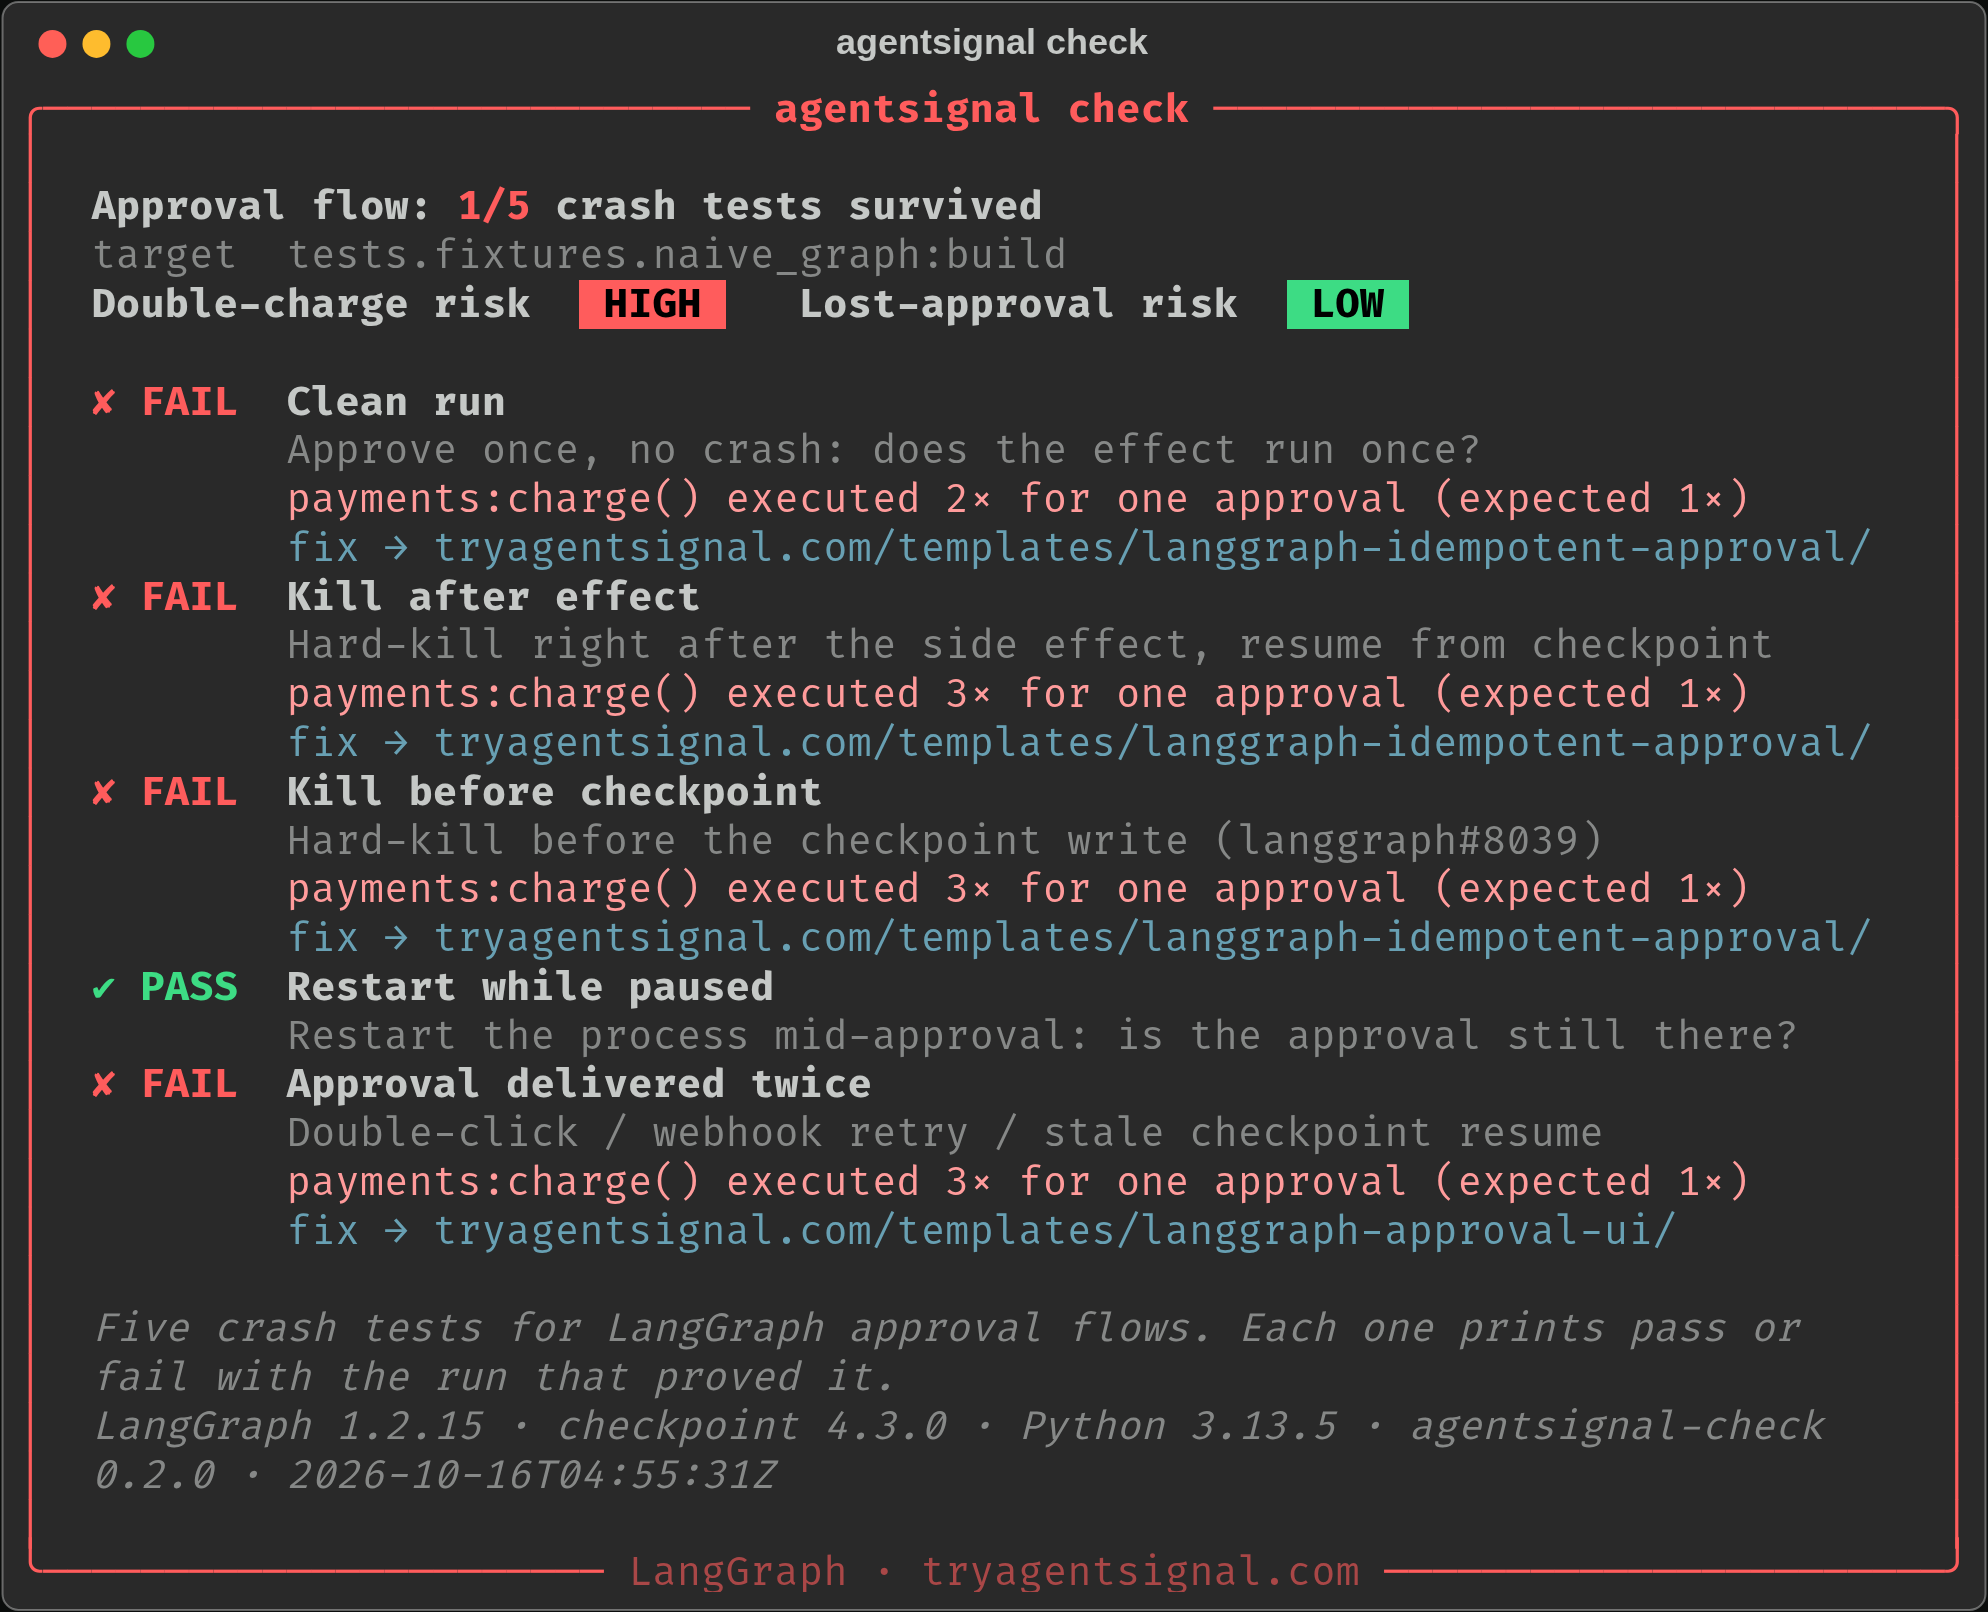
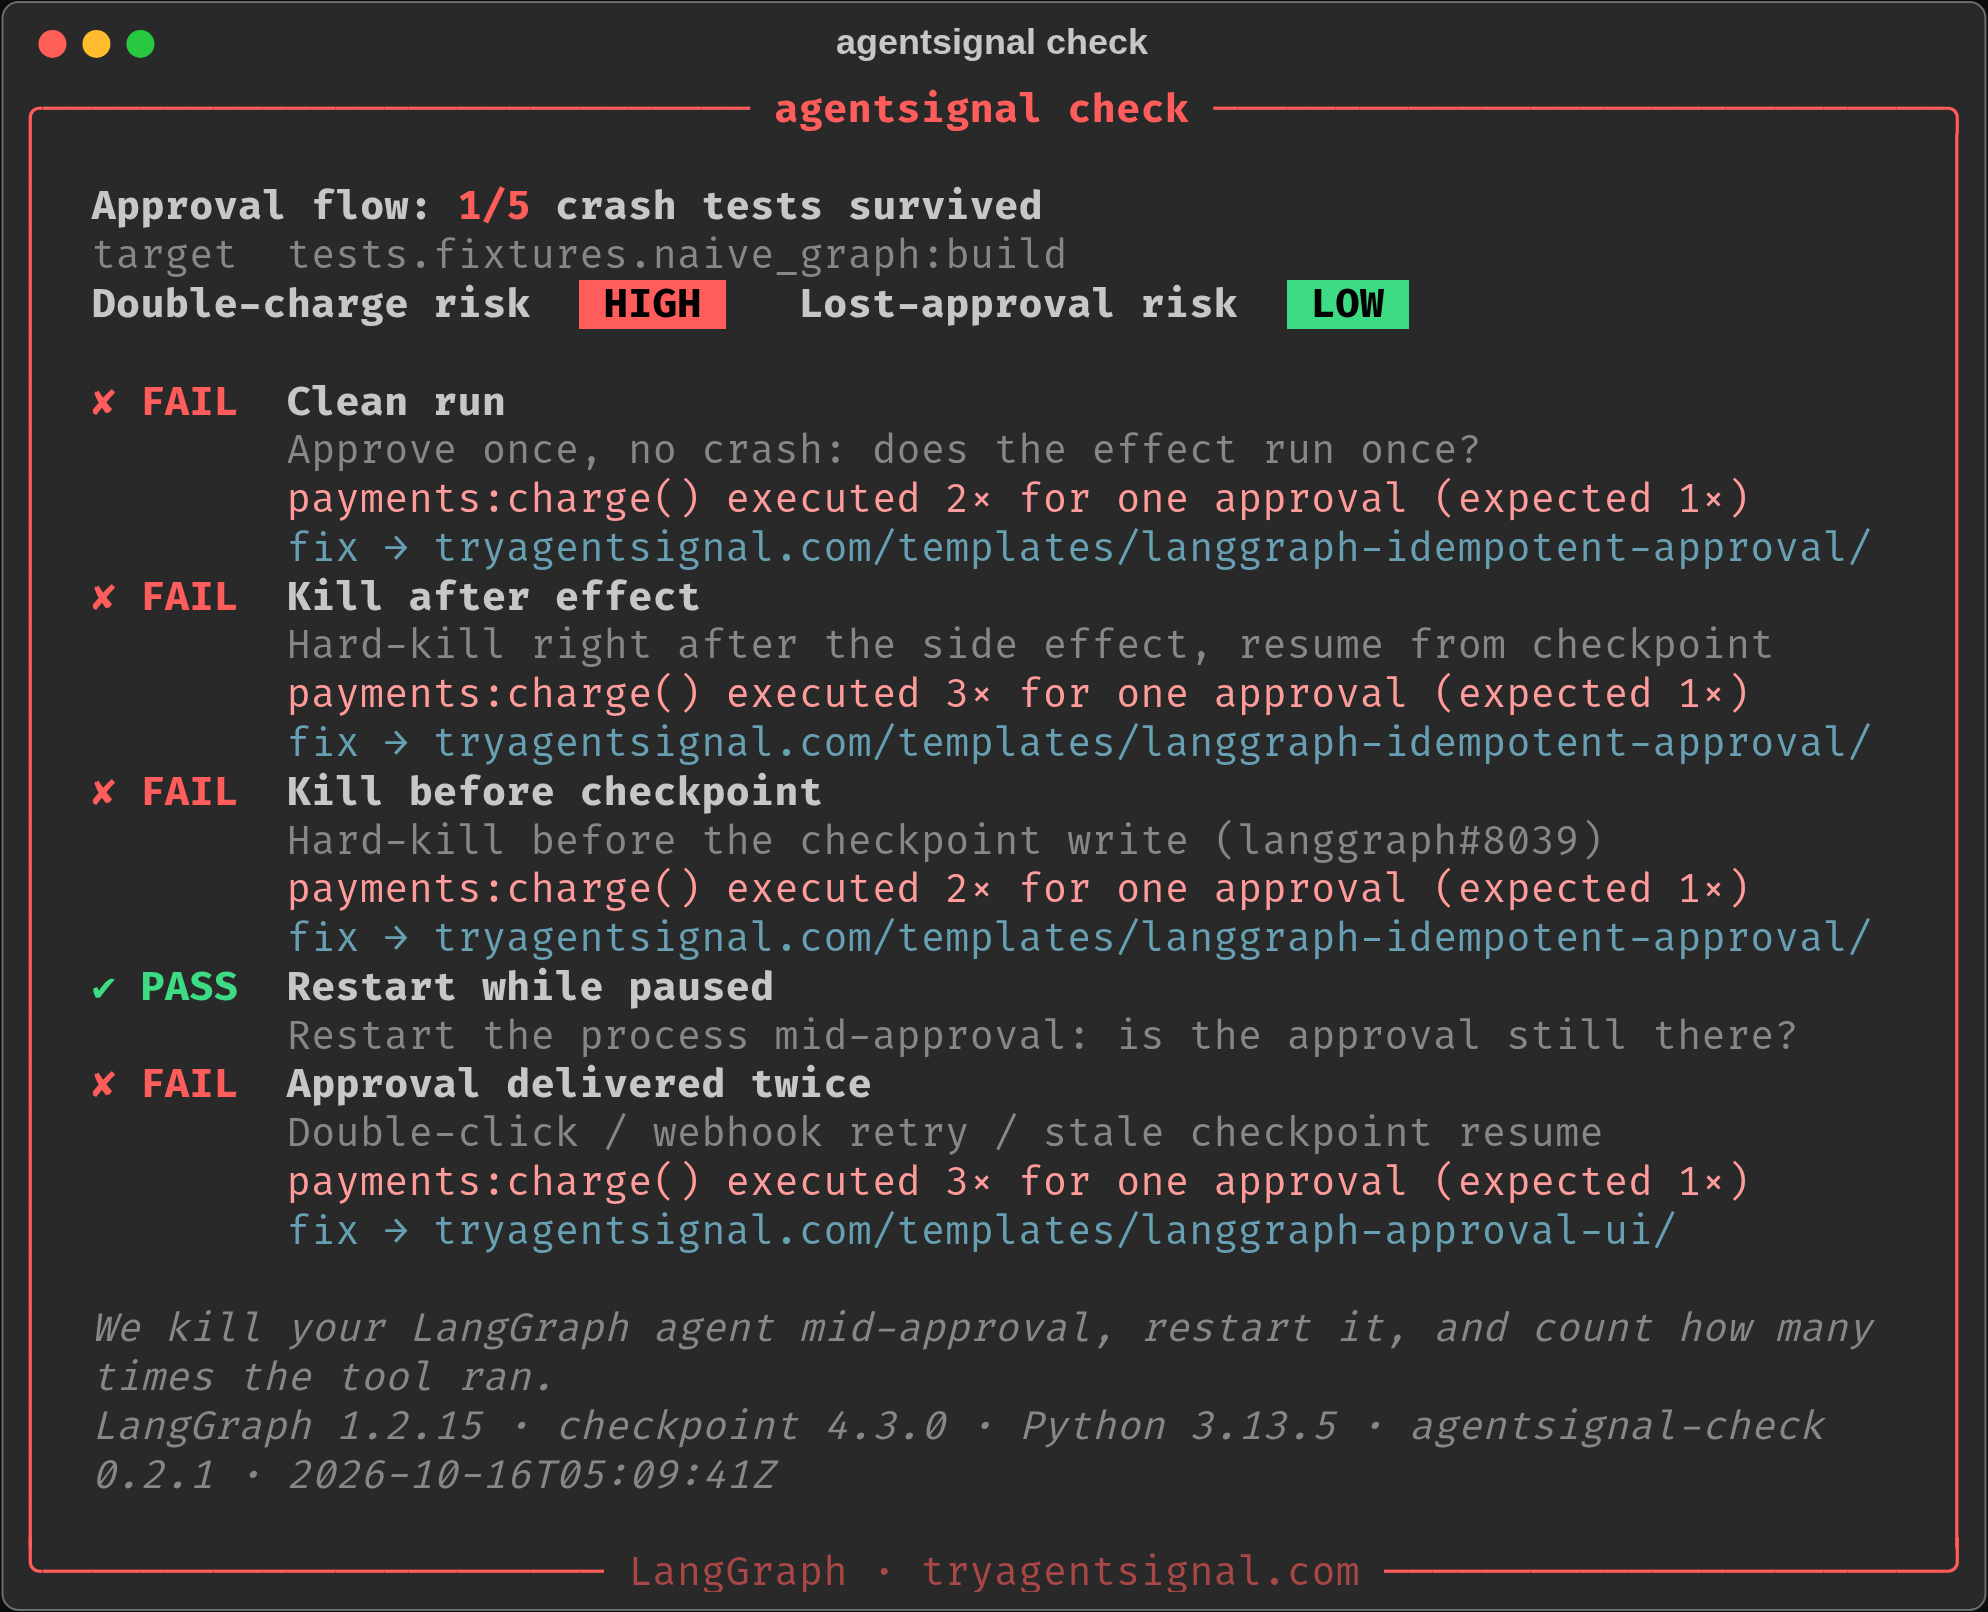
0.2.1: caption 1a footer, badge 3a/3b logic, README tagline and badge docs

Changed region(s): [[0.0312, 0.8065, 0.9356, 0.8685], [0.3119, 0.8995, 0.3431, 0.9305]]

diff --git a/agentsignal_check/card.py b/agentsignal_check/card.py
@@ -2,7 +2,7 @@
 import html as _h, os, sys
 
 SITE = "https://tryagentsignal.com"
-TAGLINE = "Five crash tests for LangGraph approval flows. Each one prints pass or fail with the run that proved it."
+TAGLINE = "We kill your LangGraph agent mid-approval, restart it, and count how many times the tool ran."
 DOUBLE = ("baseline", "double_execution.kill_resume", "double_execution.kill_before_checkpoint", "approval.replay")
 LOST = ("approval.lost_on_restart",)
 META = {  # short name, one-line why (what the test does), fix link
@@ -209,8 +209,11 @@ def _w(t):  # rough Verdana 11px width, like shields.io
 
 def render_badge(report, link="report.html"):
     s = summarize(report)
-    label = "Agent Signal crash test"
-    msg = "passing" if s["all_pass"] else f"{s['passed']}/{s['total']}"
+    # captions 3a by default; 3b ("passing") only when every detector passed on this run
+    if s["all_pass"]:
+        label, msg = "Agent Signal crash test", "passing"
+    else:
+        label, msg = "Crash-tested by Agent Signal", f"{s['passed']}/{s['total']}"
     color = "#3ddc84" if s["all_pass"] else "#dfb317"  # passing only when ALL detectors pass
     lw, mw = _w(label), _w(msg); W = lw + mw
     e = _h.escape
@@ -220,6 +223,6 @@ def render_badge(report, link="report.html"):
 <rect x="{lw}" width="{mw}" height="20" fill="{color}"/><rect width="{W}" height="20" fill="url(#s)"/></g>
 <g fill="#fff" text-anchor="middle" font-family="Verdana,Geneva,DejaVu Sans,sans-serif" font-size="11"><text x="{lw/2}" y="14">{e(label)}</text>
 <text x="{lw + mw/2}" y="14" fill="#000">{e(msg)}</text></g></svg>"""
-    alt = f"Crash-tested by Agent Signal: {s['passed']}/{s['total']} passed"
+    alt = "Agent Signal crash test: passing" if s["all_pass"] else f"Crash-tested by Agent Signal: {s['passed']}/{s['total']} passed"
     md = f"[![{alt}](agentsignal-badge.svg)]({link})"
     return svg, md

diff --git a/tests/test_card.py b/tests/test_card.py
@@ -17,6 +17,9 @@ def test_grade_and_risk_come_from_results():
     assert s["double_risk"] == "UNKNOWN" and s["lost_risk"] == "HIGH" and s["passed"] == 3
     assert card.summarize(rep(*["PASS"] * 5))["all_pass"]
 
+def test_card_footer_is_caption_1a():
+    assert card.TAGLINE == "We kill your LangGraph agent mid-approval, restart it, and count how many times the tool ran."
+
 def test_short_detail_copies_real_count():
     assert "executed 3×" in card._short("crash after effect #1 -> re-executed {'tests.fixtures.payments:charge(1999,)[]': 3}")
 
@@ -50,9 +53,11 @@ def test_png_is_1200x630(tmp_path):
 
 def test_badge_passing_only_when_all_pass():
     svg, md = card.render_badge(rep(*["PASS"] * 5), "https://x/report")
-    assert ">passing<" in svg and "5/5 passed" in md and "](https://x/report)" in md
+    assert ">passing<" in svg and ">Agent Signal crash test<" in svg
+    assert "[![Agent Signal crash test: passing]" in md and "](https://x/report)" in md
     svg, md = card.render_badge(rep("PASS", "FAIL", "PASS", "PASS", "PASS"))
-    assert "passing" not in svg and ">4/5<" in svg and "#dfb317" in svg and "4/5 passed" in md
+    assert "passing" not in svg and ">Crash-tested by Agent Signal<" in svg and ">4/5<" in svg and "#dfb317" in svg
+    assert "Crash-tested by Agent Signal: 4/5 passed" in md
     svg, _ = card.render_badge(rep(*["FAIL"] * 5))
     assert ">0/5<" in svg and "#dfb317" in svg
 

diff --git a/agentsignal_check/__init__.py b/agentsignal_check/__init__.py
@@ -1,1 +1,1 @@
-__version__ = "0.2.0"
+__version__ = "0.2.1"

diff --git a/README.md b/README.md
@@ -2,6 +2,8 @@
 
 ![agentsignal check report card: real run against the naive example graph, 1/5 crash tests survived](docs/report-card.png)
 
+*We kill your LangGraph agent mid-approval, restart it, and count how many times the tool ran.* (A real run against the intentionally broken example graph.)
+
 Crash-test your AI agent for **double execution** and **lost approvals** before your users find them.
 It runs on your machine or in CI. It's free and MIT-licensed. Built by [Agent Signal](https://tryagentsignal.com).
 
@@ -26,13 +28,13 @@ agentsignal check --graph myapp.graph:build --effect myapp.payments:charge \
 - **Terminal:** an 80-column report card with the grade ("Approval flow: 3/5 crash tests survived"), double-charge and lost-approval risk, and one row per detector with why and how to fix. With `NO_COLOR` set or output piped, it prints plain text. `--json` output is unchanged.
 - `--html`: a self-contained dark report page with OG/Twitter meta, and `--svg` exports the terminal card.
 - `--png`: a 1200×630 OG card. It needs `pip install "agentsignal-check[png]"` (Pillow).
-- `--badge`: a static SVG plus a README snippet. For example:
+- `--badge`: a static SVG plus a README snippet. The badge reads **Crash-tested by Agent Signal | N/M** (amber) by default. It switches to **Agent Signal crash test | passing** (green) only when all 5 detectors passed on that run. For example:
   ```bash
   agentsignal check --graph myapp.graph:build --effect myapp.payments:charge \
     --badge docs/agentsignal-badge.svg --badge-link https://example.com/report.html
-  # prints: [![Crash-tested by Agent Signal: 5/5 passed](docs/agentsignal-badge.svg)](https://example.com/report.html)
+  # prints e.g.: [![Crash-tested by Agent Signal: 3/5 passed](docs/agentsignal-badge.svg)](https://example.com/report.html)
   ```
-  Commit the SVG and paste the snippet into your README. Re-run in CI to keep it current. It says **passing** only when every detector passed on this run; otherwise it shows `N/M` in amber.
+  Commit the SVG, paste the snippet into your README, and link it to that repo's latest report. Re-run in CI so it reflects the current commit.
 
 The grade, risks and badge are computed only from the detector results of the current run. The screenshot at the top is a real run against `tests/fixtures/naive_graph.py`, the intentionally broken example. Regenerate it with `scripts/shots.sh`.
 

diff --git a/CHANGELOG.md b/CHANGELOG.md
@@ -1,5 +1,10 @@
 # Changelog
 
+## 0.2.1 (2026-10-15)
+- The card footer and HTML/OG tagline now read: "We kill your LangGraph agent mid-approval, restart it, and count how many times the tool ran."
+- The badge reads "Crash-tested by Agent Signal | N/M" by default, and "Agent Signal crash test | passing" only when all detectors pass on the run.
+- README: tagline under the screenshot, and badge docs.
+
 ## 0.2.0 (2026-10-15)
 - **Report card:** a rich 80-column terminal card with the grade ("Approval flow: N/M crash tests survived"), double-charge and lost-approval risk, and one row per detector with why and a fix link. With `NO_COLOR` set or output piped, it prints plain text.
 - **New outputs:** `--html` (a self-contained dark report page with OG/Twitter meta), `--svg` (terminal card export), `--png` (a 1200×630 OG card, needs the new `[png]` extra), and `--badge` with `--badge-link` (a static shields-style SVG and README snippet that says "passing" only when every detector passed, otherwise `N/M` in amber).
